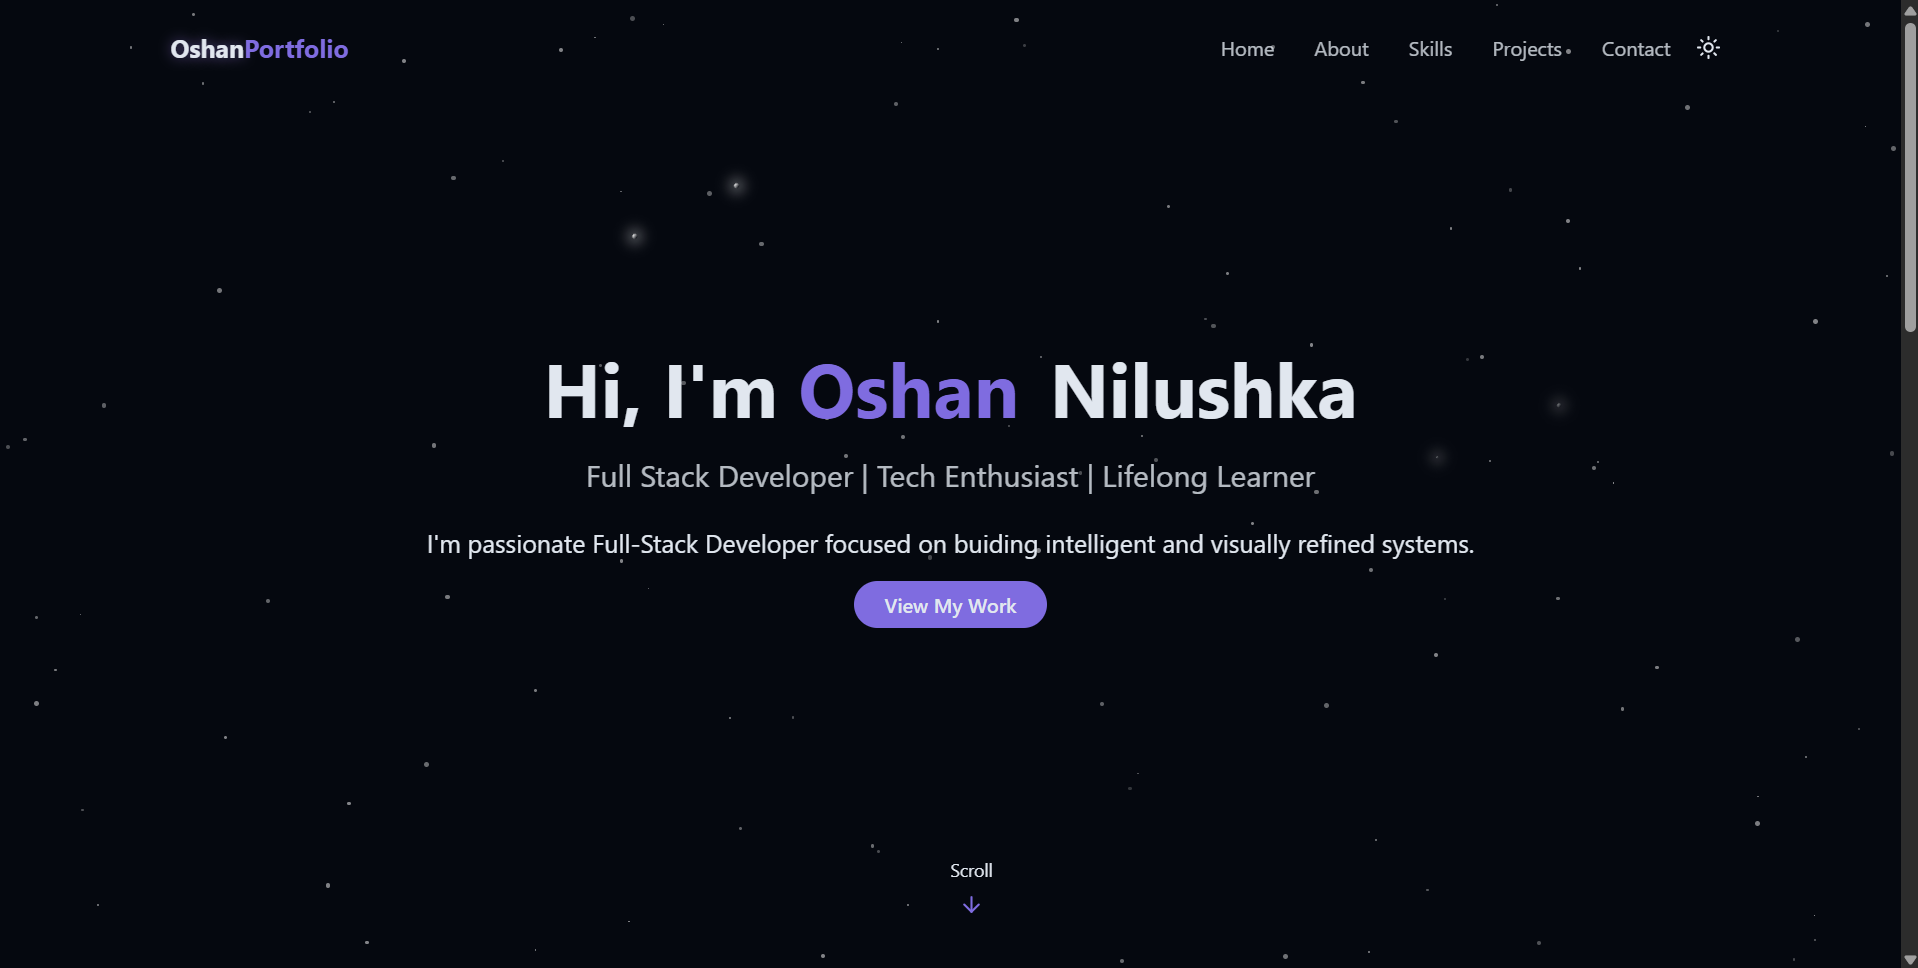
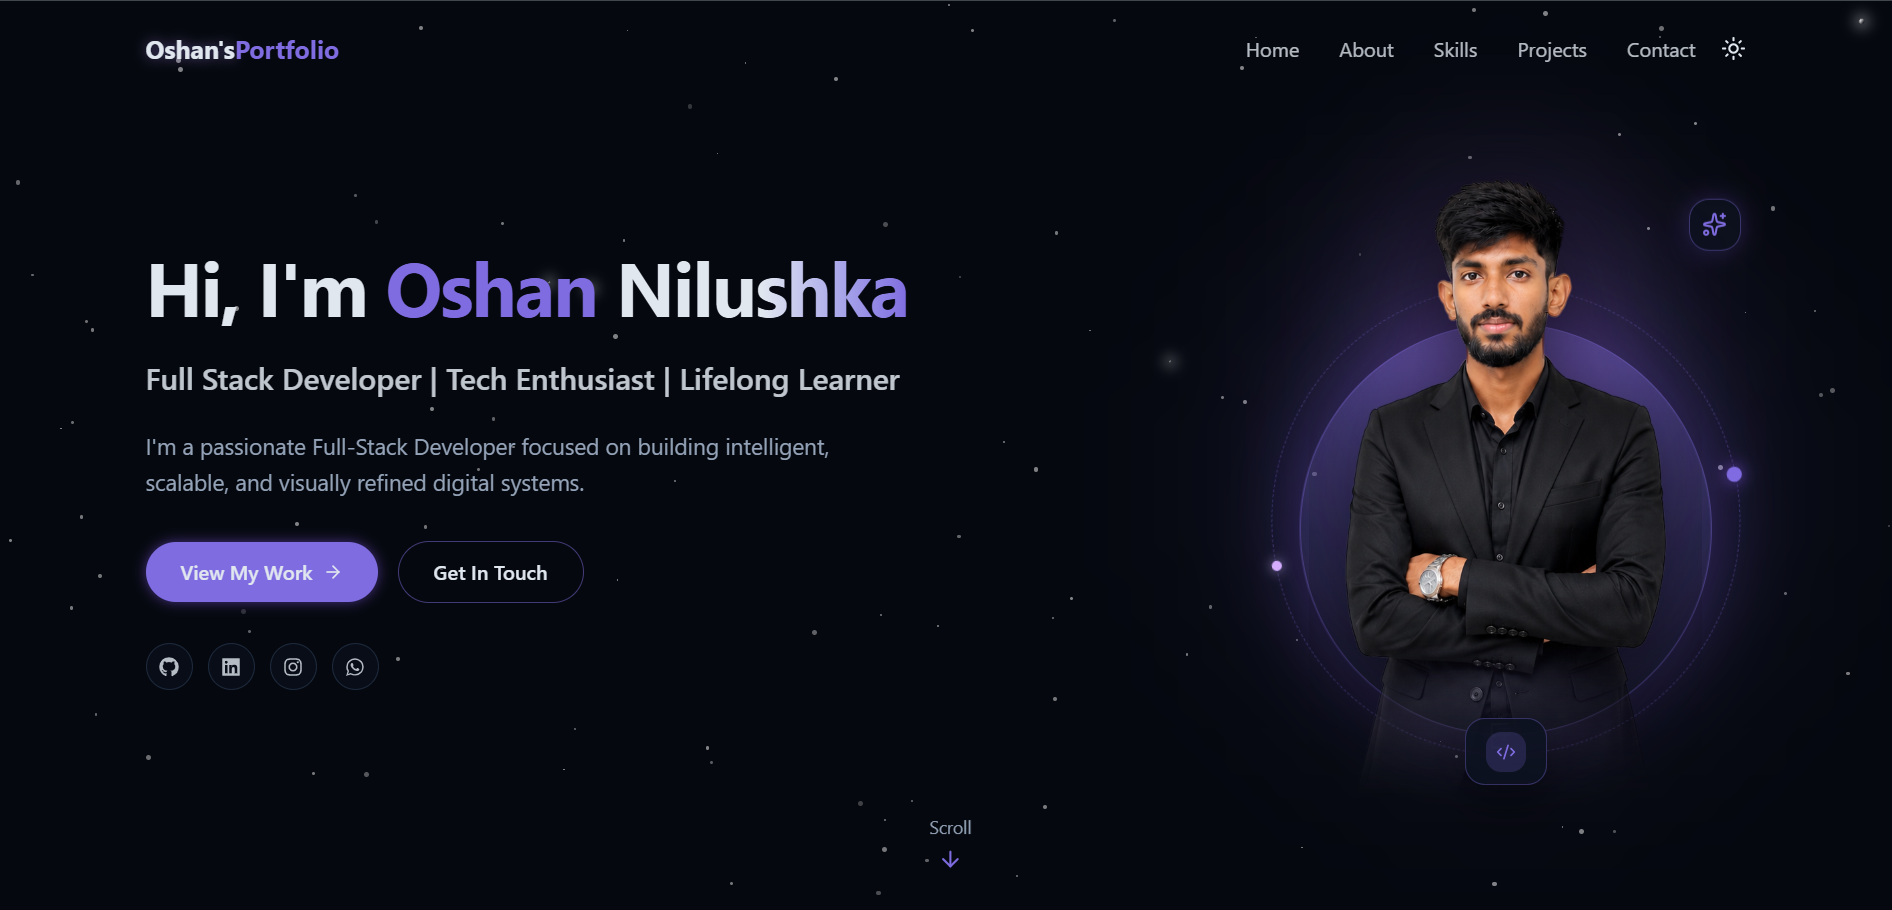
hero section updated

diff --git a/oshan/src/Components/HeroSection.jsx b/oshan/src/Components/HeroSection.jsx
@@ -1,46 +1,162 @@
-import { ArrowDownIcon } from "lucide-react";
+import { ArrowDownIcon, ArrowRight, Code2, Sparkles } from "lucide-react";
+import { FaGithub, FaLinkedin, FaInstagram, FaWhatsapp } from "react-icons/fa";
+import heroPhoto from "../assets/Oshan-cutout.png";
+
+const socialLinks = [
+  {
+    name: "GitHub",
+    href: "https://github.com/oshannilushka",
+    icon: FaGithub,
+  },
+  {
+    name: "LinkedIn",
+    href: "https://www.linkedin.com/in/oshannilushka/",
+    icon: FaLinkedin,
+  },
+  {
+    name: "Instagram",
+    href: "https://www.instagram.com/oshann0804/",
+    icon: FaInstagram,
+  },
+  {
+    name: "WhatsApp",
+    href: "https://wa.me/94715679926",
+    icon: FaWhatsapp,
+  },
+];
 
 export const HeroSection = () => {
   return (
-    <section id ="hero" 
-        className="relative min-h-screen flex flex-col items-center justify-center px-8">
-                <div className="container max-w-4xl mx-auto text-center z-10">
-                <div className="space-y-6">
-            <h1 className="text-4xl md:text-6xl font-bold tracking-light">
-                <span className="opacity-0 animate-fade-in">Hi, I'm </span>
-                <span className="text-primary opacity-0 animate-fade-in-delay-2">
+    <section
+      id="hero"
+      className="relative min-h-screen flex flex-col items-center justify-center px-6 pt-24 pb-20 overflow-hidden"
+    >
+      <div className="container max-w-6xl mx-auto z-10">
+        <div className="grid grid-cols-1 lg:grid-cols-12 gap-10 lg:gap-8 items-center">
+          {/* Left Side - Intro & Actions */}
+          <div className="lg:col-span-7 text-center lg:text-left space-y-6 order-2 lg:order-1">
+            {/* Status Pill */}
 
-                {""}
-                Oshan</span>
 
-                <span className="text-gradient ml-2 opacity-0 animate-fade-in-delay-2" > 
-                    {" "}
-                    Nilushka 
-                    </span>
-
+            {/* Main Heading */}
+            <h1 className="text-4xl sm:text-5xl lg:text-6xl font-bold tracking-tight leading-[1.12]">
+              <span className="opacity-0 animate-fade-in">Hi, I&apos;m </span>
+              <span className="text-primary  opacity-0 animate-fade-in-delay-1">
+                Oshan
+              </span>{" "}
+              <span className="bg-gradient-to-r from-foreground via-foreground to-primary bg-clip-text text-transparent opacity-0 animate-fade-in-delay-2">
+                Nilushka
+              </span>
             </h1>
-            <h2 className="text-lg md:text-2xl text-foreground/80 opacity-0 animate-fade-in-delay-4">
-                Full Stack Developer | Tech Enthusiast | Lifelong Learner
 
-
+            {/* Role Subtitle */}
+            <h2 className="text-lg sm:text-xl md:text-2xl font-medium text-foreground/85 opacity-0 animate-fade-in-delay-3">
+              Full Stack Developer | Tech Enthusiast | Lifelong Learner
             </h2>
 
-            <p className="text-lg md:text-xl text-muted-foreground max-2-2xl mx-auto opacity-0 animate-fade-in-delay-3">
-       I'm passionate Full-Stack Developer focused on  buiding intelligent and visually refined systems.
+            {/* Bio */}
+            <p className="text-base sm:text-lg text-muted-foreground max-w-xl mx-auto lg:mx-0 leading-relaxed opacity-0 animate-fade-in-delay-3">
+              I&apos;m a passionate Full-Stack Developer focused on building
+              intelligent, scalable, and visually refined digital systems.
             </p>
-            <div>
-                <a href="#projects" className="cosmic-button opacity-0 animate-fade-in-delay-5">
-                    View My Work
-                </a>
+
+            {/* CTA Buttons */}
+            <div className="flex flex-wrap items-center justify-center lg:justify-start gap-4 pt-2 opacity-0 animate-fade-in-delay-4">
+              <a
+                href="#projects"
+                className="cosmic-button inline-flex items-center gap-2 px-7 py-3"
+              >
+                View My Work
+                <ArrowRight className="w-4 h-4" />
+              </a>
+
+              <a
+                href="#contact"
+                className="px-7 py-3 rounded-full border border-primary/50 text-foreground hover:text-primary hover:border-primary hover:bg-primary/10 font-medium transition-all duration-300 hover:scale-105 active:scale-95"
+              >
+                Get In Touch
+              </a>
             </div>
+
+            {/* Social Links */}
+            <div className="flex items-center justify-center lg:justify-start gap-3 pt-2 opacity-0 animate-fade-in-delay-5">
+              {socialLinks.map((social) => {
+                const Icon = social.icon;
+                return (
+                  <a
+                    key={social.name}
+                    href={social.href}
+                    target="_blank"
+                    rel="noopener noreferrer"
+                    aria-label={social.name}
+                    className="p-2.5 rounded-full border border-border/80 bg-card/60 backdrop-blur-sm text-foreground/80 hover:text-primary hover:border-primary/60 hover:bg-primary/10 hover:-translate-y-0.5 transition-all duration-300"
+                  >
+                    <Icon className="w-4 h-4" />
+                  </a>
+                );
+              })}
+            </div>
+          </div>
+
+          {/* Right Side - Forward-Focused Cutout Portrait */}
+          <div className="lg:col-span-5 flex justify-center lg:justify-end order-1 lg:order-2 opacity-0 animate-fade-in-delay-2">
+            <div className="relative group flex items-end justify-center w-[300px] h-[410px] sm:w-[350px] sm:h-[475px] lg:w-[400px] lg:h-[525px]">
+              {/* Deep Cosmic Backlight Spotlight (Separates Dark Suit & Hair Forward) */}
+              <div className="absolute top-[22%] left-1/2 -translate-x-1/2 w-64 h-64 sm:w-72 sm:h-72 lg:w-80 lg:h-80 rounded-full bg-primary/35 blur-[75px] opacity-85 group-hover:opacity-100 group-hover:scale-110 transition-all duration-700 pointer-events-none" />
+              <div className="absolute top-[10%] left-1/2 -translate-x-1/2 w-44 h-44 rounded-full bg-purple-400/30 blur-3xl pointer-events-none" />
+
+              {/* Rotating Cosmic Orbit Ring with Glowing Star Nodes (Behind Subject) */}
+              <div className="absolute bottom-8 left-1/2 -translate-x-1/2 w-[275px] h-[275px] sm:w-[325px] sm:h-[325px] lg:w-[375px] lg:h-[375px] rounded-full border border-dashed border-primary/35 pointer-events-none animate-spinSlow">
+                <span className="absolute -top-1.5 left-1/2 -translate-x-1/2 w-3 h-3 rounded-full bg-primary shadow-[0_0_14px_rgba(139,92,246,0.95)]" />
+                <span className="absolute -bottom-1 left-1/2 -translate-x-1/2 w-2 h-2 rounded-full bg-purple-300 shadow-[0_0_10px_rgba(196,181,253,0.95)]" />
+              </div>
+
+              {/* Sculpted Cosmic Backdrop Circle (Subject Pops Out Above Top Edge) */}
+              <div className="absolute bottom-12 left-1/2 -translate-x-1/2 w-[240px] h-[240px] sm:w-[285px] sm:h-[285px] lg:w-[330px] lg:h-[330px] rounded-full bg-gradient-to-b from-primary/35 via-primary/12 to-transparent border border-primary/45 shadow-[0_0_60px_rgba(139,92,246,0.3)] backdrop-blur-[2px] pointer-events-none transition-transform duration-500 group-hover:scale-[1.03]" />
+
+              {/* Subtle Floating Sparkle Chip */}
+              <div className="absolute top-12 right-2 sm:right-3 z-20 p-2.5 rounded-2xl border border-primary/40 bg-card/80 backdrop-blur-md shadow-[0_0_20px_rgba(139,92,246,0.25)] text-primary animate-float">
+                <Sparkles className="w-4 h-4 sm:w-5 sm:h-5" />
+              </div>
+
+              {/* Background-Removed Cutout Portrait (Popping Forward) */}
+              <div
+                className="relative z-10 w-[245px] h-[400px] sm:w-[285px] sm:h-[465px] lg:w-[315px] lg:h-[515px] pointer-events-none select-none transition-transform duration-500 ease-out group-hover:scale-[1.04] group-hover:-translate-y-2"
+                style={{
+                  WebkitMaskImage:
+                    "linear-gradient(to bottom, black 0%, black 76%, transparent 100%)",
+                  maskImage:
+                    "linear-gradient(to bottom, black 0%, black 76%, transparent 100%)",
+                }}
+              >
+                <img
+                  src={heroPhoto}
+                  alt="Oshan Nilushka - Full Stack Developer"
+                  className="w-full h-full object-cover object-top drop-shadow-[0_18px_32px_rgba(0,0,0,0.65)] drop-shadow-[0_0_28px_rgba(139,92,246,0.4)]"
+                />
+              </div>
+
+              {/* Foreground Floating Glass Pill (Reinforces 3D Depth Layer) */}
+              <div className="absolute bottom-2 left-1/2 -translate-x-1/2 z-20 flex items-center gap-3 px-4 py-2.5 rounded-2xl border border-primary/35 bg-card/85 backdrop-blur-md shadow-[0_12px_35px_rgba(0,0,0,0.45)] whitespace-nowrap">
+                <div className="p-2 rounded-xl bg-primary/20 text-primary shrink-0">
+                  <Code2 className="w-4 h-4" />
+                </div>
+
+              </div>
+            </div>
+          </div>
         </div>
-        </div>
-        <div className ="absolute bottom-8 left-1/2 transform-translate-x-1/2 flex flex-col items-center animate-bounce">
-         <span className ="text-sm text-muted-foreground mb-2">
-            Scroll
-         </span >
-         <ArrowDownIcon className="h-5 w-5 text-primary "/>
-        </div>
+      </div>
+
+      {/* Scroll Indicator */}
+      <a
+        href="#about"
+        aria-label="Scroll to About section"
+        className="absolute bottom-6 left-1/2 -translate-x-1/2 flex flex-col items-center text-muted-foreground hover:text-primary transition-colors animate-bounce z-10"
+      >
+        <span className="text-xs sm:text-sm mb-1.5">Scroll</span>
+        <ArrowDownIcon className="h-5 w-5 text-primary" />
+      </a>
     </section>
-    );
+  );
 };

diff --git a/oshan/index.html b/oshan/index.html
@@ -1,13 +1,16 @@
 <!doctype html>
 <html lang="en">
-  <head>
-    <meta charset="UTF-8" />
-    <link rel="icon" type="image/svg+xml" href="/favicon.svg" />
-    <meta name="viewport" content="width=device-width, initial-scale=1.0" />
-    <title>oshan</title>
-  </head>
-  <body>
-    <div id="root"></div>
-    <script type="module" src="/src/main.jsx"></script>
-  </body>
+
+<head>
+  <meta charset="UTF-8" />
+  <link rel="icon" type="image/svg+xml" href="/favicon.svg" />
+  <meta name="viewport" content="width=device-width, initial-scale=1.0" />
+  <title>oshan Nilushka</title>
+</head>
+
+<body>
+  <div id="root"></div>
+  <script type="module" src="/src/main.jsx"></script>
+</body>
+
 </html>
